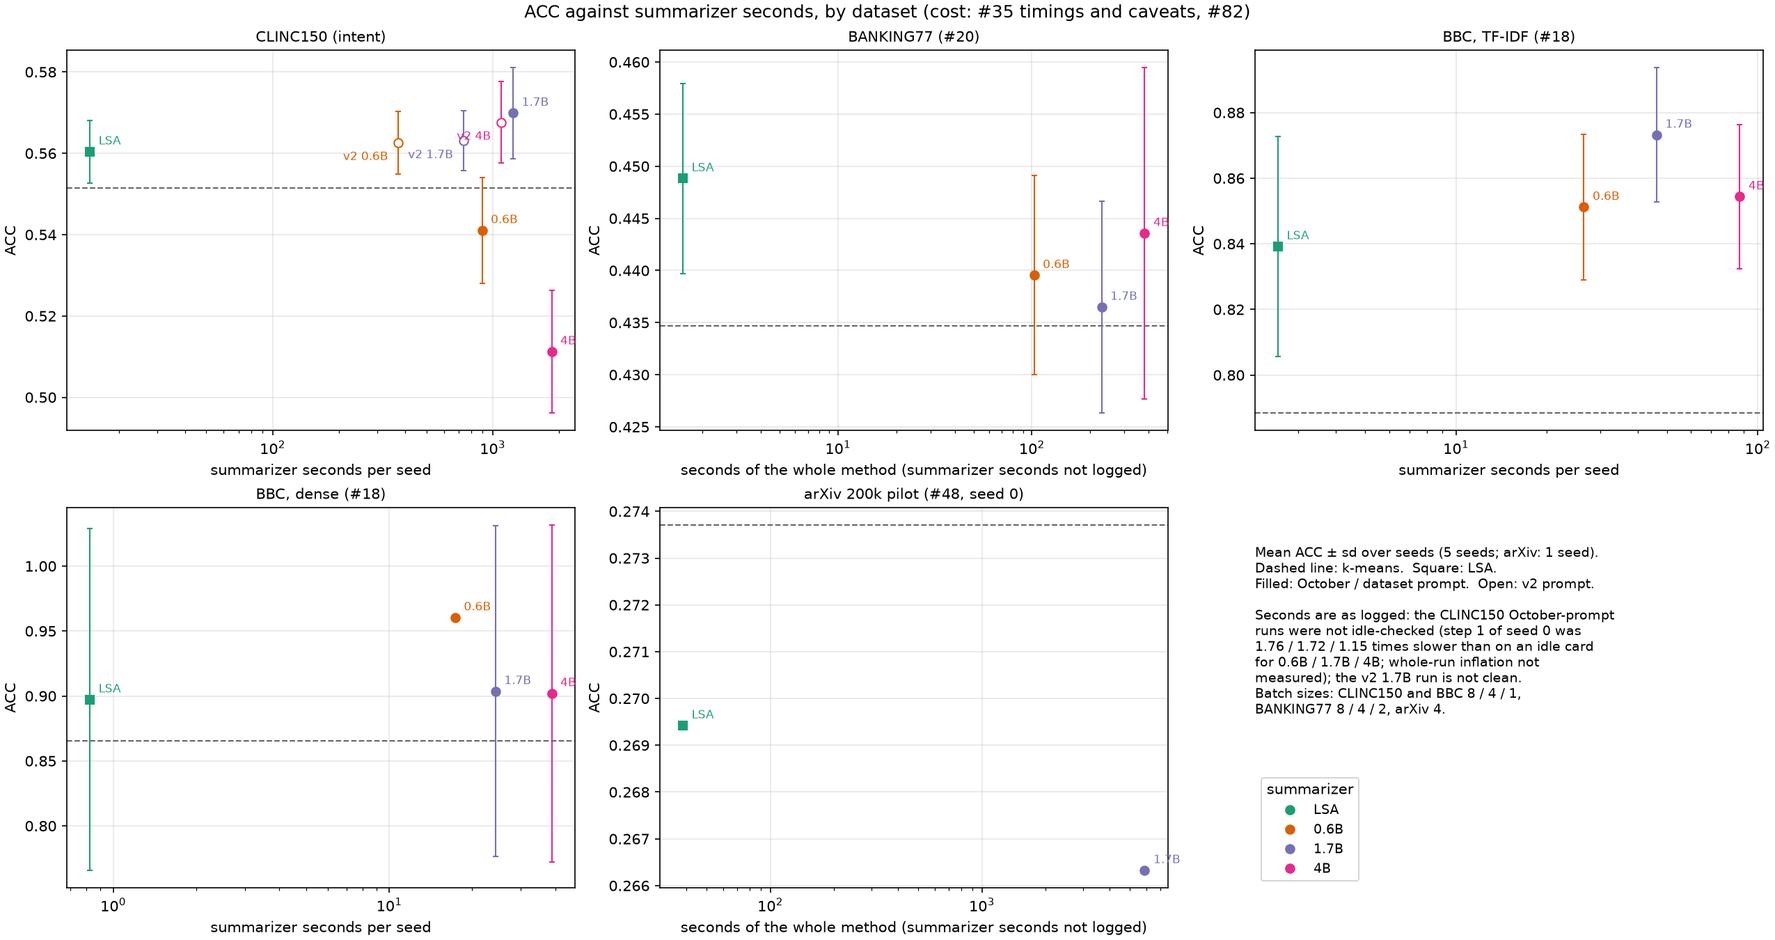
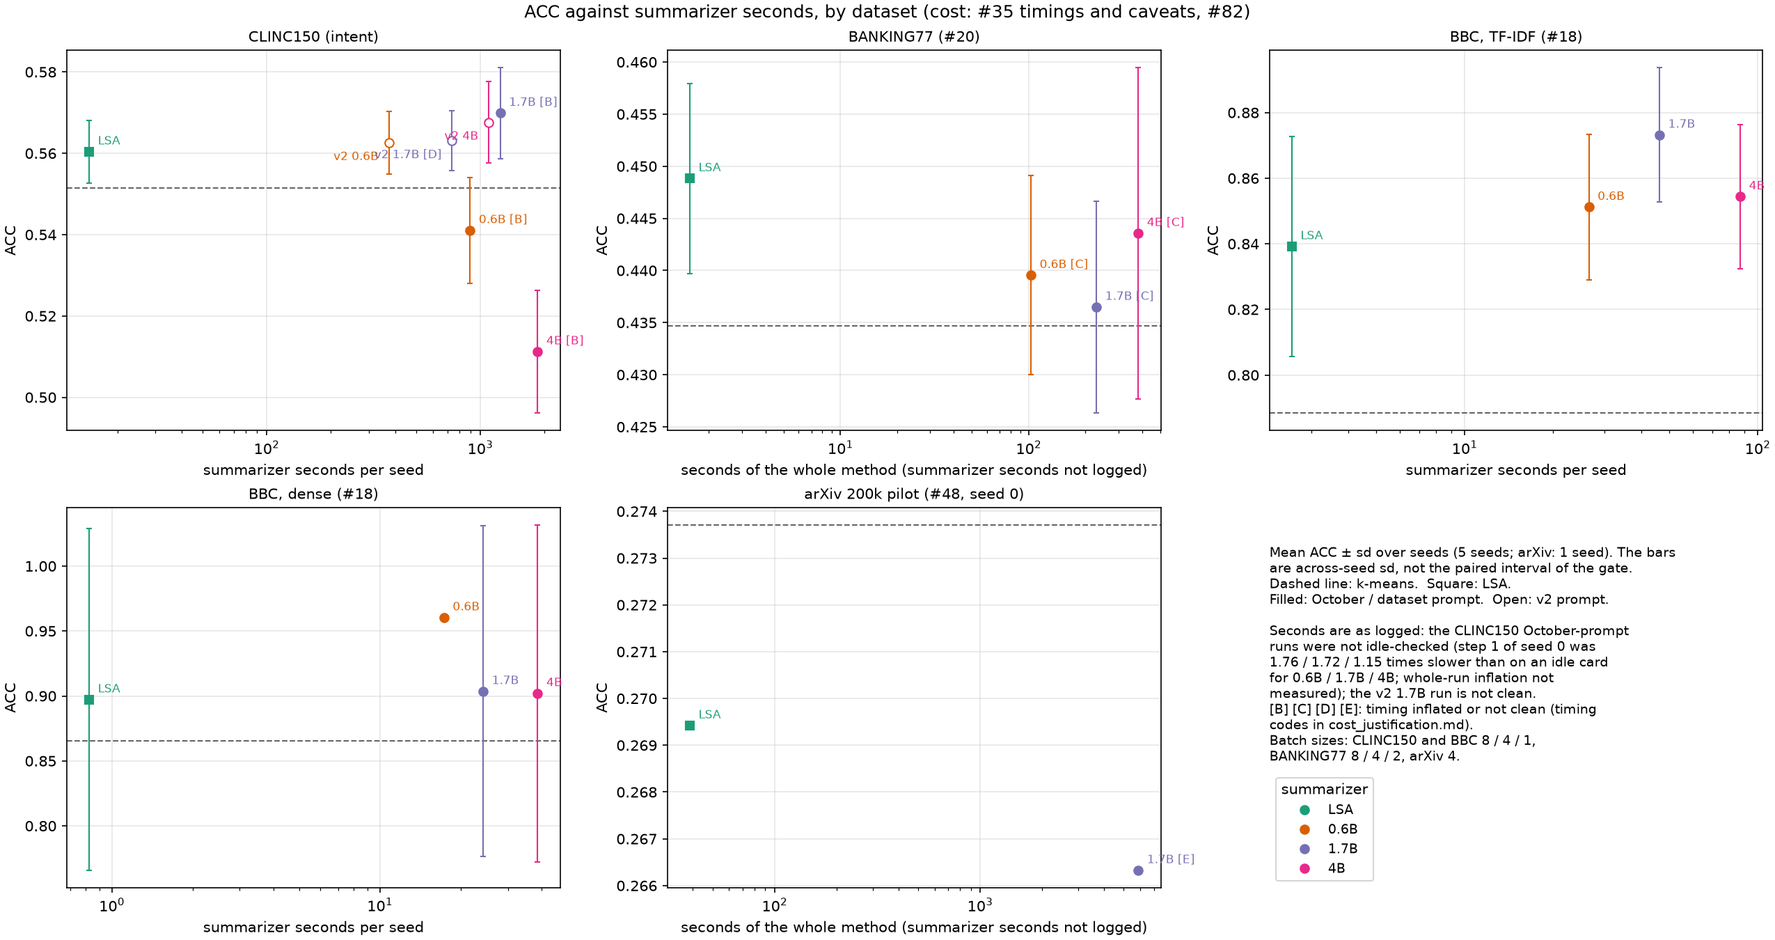
Tighten the cost-justification wording, mark unclean timings on the figure, accept a checkout or its results directory in the cost table script, and blank the arXiv extra seconds

diff --git a/tests/test_cost_table.py b/tests/test_cost_table.py
@@ -31,15 +31,10 @@ def _cost(rows: list[dict]) -> pd.DataFrame:
     return pd.DataFrame(out)
 
 
-def _per_seed() -> pd.DataFrame:
-    # 3 seeds. LSA beats k-means by 0.02 every seed; the SLM beats LSA by a noisy +-0.02 and k-means by a steady 0.05.
-    acc = {
-        "k-means": [0.50, 0.51, 0.52],
-        ct.LSA: [0.52, 0.53, 0.54],
-        SLM: [0.55, 0.56, 0.57],
-    }
-    slm_vs_lsa = [0.03, 0.03, 0.03]
-    acc[SLM] = [a + d for a, d in zip(acc[ct.LSA], slm_vs_lsa)]
+def _per_seed(slm_vs_lsa: float = 0.03) -> pd.DataFrame:
+    # 3 seeds. LSA beats k-means by 0.02 every seed; the SLM differs from LSA by `slm_vs_lsa` every seed.
+    lsa = [0.52, 0.53, 0.54]
+    acc = {"k-means": [0.50, 0.51, 0.52], ct.LSA: lsa, SLM: [a + slm_vs_lsa for a in lsa]}
     rows = [
         {"method": m, "seed": s, "acc": v, "nmi": v, "ari": v, "runtime_s": 1.0}
         for m, vals in acc.items()
@@ -48,7 +43,7 @@ def _per_seed() -> pd.DataFrame:
     return pd.DataFrame(rows)
 
 
-def _rows(prices=None, per_seed=None) -> pd.DataFrame:
+def _rows(prices=None, per_seed=None, slm_seconds: float = 602.0) -> pd.DataFrame:
     per_seed = _per_seed() if per_seed is None else per_seed
     cost = _cost(
         [
@@ -59,7 +54,7 @@ def _rows(prices=None, per_seed=None) -> pd.DataFrame:
                 "n_calls": 12,
                 "input_tokens": 1_000_000,
                 "output_tokens": 50_000,
-                "summarizer_seconds": 602.0,
+                "summarizer_seconds": slm_seconds,
                 "runtime_s": 610.0,
                 "batch_size": 4,
                 "gpu_idle": True,
@@ -134,6 +129,39 @@ def test_rows_noisy_difference_is_no_measured_benefit():
     rows = _rows(per_seed=per_seed).set_index("method")
     assert rows.loc[SLM, "lsa_status"] == "no_benefit"
     assert np.isnan(rows.loc[SLM, "lsa_seconds_per_point"])
+
+
+def test_rows_loss_status_has_no_ratio():
+    rows = _rows(per_seed=_per_seed(slm_vs_lsa=-0.03)).set_index("method")
+    assert rows.loc[SLM, "lsa_status"] == "loss"
+    assert rows.loc[SLM, "lsa_points"] == pytest.approx(-3.0)
+    assert np.isnan(rows.loc[SLM, "lsa_seconds_per_point"])
+
+
+def test_rows_benefit_that_is_not_costlier_has_no_ratio():
+    rows = _rows(slm_seconds=1.0).set_index("method")  # cheaper than LSA's 2.0 s
+    assert rows.loc[SLM, "lsa_status"] == "benefit_no_extra_cost"
+    assert np.isnan(rows.loc[SLM, "lsa_seconds_per_point"])
+    assert rows.loc[SLM, "kmeans_status"] == "benefit"  # still costlier than k-means (0 s)
+
+
+def test_priced_no_benefit_row_keeps_dollars_per_point_empty():
+    per_seed = _per_seed()
+    per_seed.loc[(per_seed.method == SLM) & (per_seed.seed == 0), ["acc", "nmi", "ari"]] -= 0.10
+    rows = _rows(prices=ct.load_prices(FIXTURE), per_seed=per_seed).set_index("method")
+    assert rows.loc[SLM, "lsa_status"] == "no_benefit"
+    assert rows.loc[SLM, "local_usd"] > 0  # priced
+    assert np.isnan(rows.loc[SLM, "lsa_usd_per_point:local"])
+    assert np.isnan(rows.loc[SLM, "lsa_usd_per_point:test-model"])
+
+
+def test_descriptive_only_rows_have_no_extra_seconds():
+    spec = ct.DatasetSpec("toy", "Toy", (), "p", descriptive_only=True)
+    per_seed = _per_seed()
+    per_seed = per_seed[per_seed.seed == 0]
+    cost = _cost([{"method": "k-means", "runtime_s": 118.0}, {"method": ct.LSA, "runtime_s": 39.0}, {"method": SLM, "runtime_s": 5885.0}])
+    rows = ct.build_rows(spec, cost, per_seed, paired_differences(per_seed, list(ct.REFERENCES)))
+    assert rows[["lsa_extra_seconds", "kmeans_extra_seconds"]].isna().all().all()
 
 
 def test_rows_run_total_seconds_when_no_summarizer_seconds_logged():
@@ -255,6 +283,31 @@ def test_collect_reads_run_directories(tmp_path):
     assert rows.loc[SLM, "vs_lsa_acc_diff"] == pytest.approx(0.03)
     with pytest.raises(FileNotFoundError):
         ct.collect(ct.DatasetSpec("x", "X", ("missing/stamp",), "p"), tmp_path / "results")
+
+
+def test_resolve_results_root_accepts_checkout_or_results_dir(tmp_path):
+    (tmp_path / "results").mkdir()
+    assert ct.resolve_results_root(tmp_path) == tmp_path / "results"
+    assert ct.resolve_results_root(tmp_path / "results") == tmp_path / "results"
+    assert ct.resolve_results_root(str(tmp_path)) == tmp_path / "results"
+
+
+def test_intervals_match_committed_paired_csvs_when_results_are_available():
+    """Optional: set KSLIMEANS_RESULTS to a checkout (or its results/) holding the runs."""
+    import os
+
+    env = os.environ.get("KSLIMEANS_RESULTS")
+    if not env:
+        pytest.skip("KSLIMEANS_RESULTS not set")
+    docs = Path(__file__).resolve().parent.parent / "docs" / "results"
+    for key, name in (("bbc_tfidf", "bbc_tfidf_paired.csv"), ("bbc_dense", "bbc_dense_paired.csv"), ("clinc150", "prompt_test_paired.csv")):
+        spec = next(d for d in ct.DATASETS if d.key == key)
+        rows = ct.collect(spec, ct.resolve_results_root(env)).set_index("method")
+        committed = pd.read_csv(docs / name)
+        for _, r in committed[committed["reference"].isin(ct.REFERENCES) & committed["method"].isin(rows.index)].iterrows():
+            ref = "lsa" if r["reference"] == ct.LSA else "kmeans"
+            for col, src in (("diff", "mean_diff"), ("lo", "ci_low"), ("hi", "ci_high")):
+                assert rows.loc[r["method"], f"vs_{ref}_{r['metric']}_{col}"] == pytest.approx(r[src], abs=1e-9)
 
 
 def test_script_is_executable_with_shebang():

diff --git a/scripts/cost_table.py b/scripts/cost_table.py
@@ -26,7 +26,7 @@ from pathlib import Path
 
 import pandas as pd
 
-from kslimeans.cost_table import DATASETS, collect, flat_csv, load_prices, render_all, short_name
+from kslimeans.cost_table import DATASETS, collect, flat_csv, load_prices, render_all, resolve_results_root, short_name
 
 KMEANS_COLOR = "#666666"
 FAMILY_COLOR = {"lsa": "#1b9e77", "0.6B": "#d95f02", "1.7B": "#7570b3", "4B": "#e7298a"}
@@ -59,7 +59,7 @@ def plot_pareto(frames: dict[str, pd.DataFrame], titles: dict[str, str], path: P
                 elinewidth=1, capsize=2, linestyle="none",
             )  # fmt: skip
             ax.annotate(
-                short_name(r), (r["seconds"], r["acc_mean"]), textcoords="offset points", xytext=(-7, -12) if v2 else (6, 5),
+                short_name(r) + (f" [{r['timing_code']}]" if r["timing_code"] in "BCDE" else ""), (r["seconds"], r["acc_mean"]), textcoords="offset points", xytext=(-7, -12) if v2 else (6, 5),
                 ha="right" if v2 else "left", fontsize=8, color=color,
             )  # fmt: skip
         ax.set_xscale("log")
@@ -73,10 +73,11 @@ def plot_pareto(frames: dict[str, pd.DataFrame], titles: dict[str, str], path: P
     note = flat[-1]
     note.text(
         0, 0.9,
-        "Mean ACC ± sd over seeds (5 seeds; arXiv: 1 seed).\nDashed line: k-means.  Square: LSA.\n"
+        "Mean ACC ± sd over seeds (5 seeds; arXiv: 1 seed). The bars\nare across-seed sd, not the paired interval of the gate.\nDashed line: k-means.  Square: LSA.\n"
         "Filled: October / dataset prompt.  Open: v2 prompt.\n\n"
         "Seconds are as logged: the CLINC150 October-prompt\nruns were not idle-checked (step 1 of seed 0 was\n"
         "1.76 / 1.72 / 1.15 times slower than on an idle card\nfor 0.6B / 1.7B / 4B; whole-run inflation not\nmeasured); the v2 1.7B run is not clean.\n"
+        "[B] [C] [D] [E]: timing inflated or not clean (timing\ncodes in cost_justification.md).\n"
         "Batch sizes: CLINC150 and BBC 8 / 4 / 1,\nBANKING77 8 / 4 / 2, arXiv 4.",
         va="top", fontsize=9, transform=note.transAxes,
     )  # fmt: skip
@@ -89,13 +90,15 @@ def plot_pareto(frames: dict[str, pd.DataFrame], titles: dict[str, str], path: P
 
 def main() -> None:
     parser = argparse.ArgumentParser(description=__doc__, formatter_class=argparse.RawDescriptionHelpFormatter)
-    parser.add_argument("--results", default=".", help="checkout that holds results/ (default: the current directory)")
+    parser.add_argument(
+        "--results", default=".", help="the checkout that holds results/, or that results/ directory (default: the current directory)"
+    )
     parser.add_argument("--out-dir", default="docs/results", help="where the CSV, markdown and figure go (default: %(default)s)")
     parser.add_argument("--prices", help="CSV of item,unit,usd,source,checked rows (#10); without it the dollar columns are empty")
     args = parser.parse_args()
 
     prices = load_prices(args.prices)
-    root = Path(args.results) / "results"
+    root = resolve_results_root(args.results)
     frames = {spec.key: collect(spec, root, prices) for spec in DATASETS}
     specs = {spec.key: spec for spec in DATASETS}
     out = Path(args.out_dir)

diff --git a/src/kslimeans/cost_table.py b/src/kslimeans/cost_table.py
@@ -418,6 +418,8 @@ def add_cost_per_benefit(frame: pd.DataFrame, api_models: list[str]) -> pd.DataF
     """
     frame = frame.copy()
     by_method = frame.set_index("method")
+    if "descriptive_only" not in frame:
+        frame["descriptive_only"] = False
     names = ["local", *api_models]
     for ref_name, ref_label in (("lsa", LSA), ("kmeans", KMEANS)):
         columns: dict[str, list] = {k: [] for k in ("status", "points", "extra_seconds", "seconds_per_point")}
@@ -430,7 +432,8 @@ def add_cost_per_benefit(frame: pd.DataFrame, api_models: list[str]) -> pd.DataF
                 extra_seconds, extra_usd = np.nan, {n: np.nan for n in names}
             else:
                 ref = by_method.loc[ref_label]
-                extra_seconds = row["seconds"] - ref["seconds"]
+                # One-seed runs are descriptive: their seconds sit on different shared-machine conditions and bases.
+                extra_seconds = np.nan if row["descriptive_only"] else row["seconds"] - ref["seconds"]
                 extra_usd = {"local": row["local_usd"] - ref["local_usd"]}
                 for model in api_models:
                     extra_usd[model] = row[f"api_usd:{model}"] - ref[f"api_usd:{model}"]
@@ -451,6 +454,15 @@ def add_cost_per_benefit(frame: pd.DataFrame, api_models: list[str]) -> pd.DataF
         for key, values in columns.items():
             frame[f"{ref_name}_{key}"] = values
     return frame
+
+
+def resolve_results_root(path: str | Path) -> Path:
+    """The directory that holds the run directories: `path/results` when it exists, else `path` itself.
+
+    So `--results` accepts either a checkout or its `results/` directory.
+    """
+    path = Path(path)
+    return path / "results" if (path / "results").is_dir() else path
 
 
 def collect(spec: DatasetSpec, root: str | Path, prices: Prices | None = None) -> pd.DataFrame:

diff --git a/docs/results/cost_justification.md b/docs/results/cost_justification.md
@@ -17,8 +17,8 @@ One row per (dataset, method[, prompt]): seeds, summarizer calls, input and outp
 | Code | Meaning |
 | --- | --- |
 | `-` | CPU method (k-means; LSA summarizer), no card involved |
-| `A` | card idle-checked at the start and clean during the run (non-torch memory within about our own CUDA context, +137 to +139 MiB) |
-| `B` | card not idle-checked (the run predates #35). CLINC150 October prompt only: at step 1 of seed 0 the logged seconds were **1.76 / 1.72 / 1.15 times** the idle-card seconds for 0.6B / 1.7B / 4B (`cost_timing.md` section 4, one step of one seed per size). **The whole-run inflation was not measured**; the full-seed re-time was dropped |
+| `A` | card idle-checked at the start and clean during the run (non-torch memory within about our own CUDA context, +137 to +139 MiB). For BBC, light low-priority CPU work for other issues ran alongside, so the CPU-side parts of those seconds may be slightly inflated; the GPU part is clean (`bbc.md`, "Time") |
+| `B` | card not idle-checked (the run predates #35). CLINC150 October prompt only: at step 1 of seed 0 the logged seconds were **1.76 / 1.72 / 1.15 times** the idle-card seconds for 0.6B / 1.7B / 4B (`cost_timing.md` section 4, one step of one seed per size). **The whole-run inflation was not measured**; the full-seed re-time was dropped. Step 1 was the least inflated step of the 0.6B and 4B runs (later steps ran slower per output token, `cost_timing.md` section 4), so 1.76 / 1.72 / 1.15 are probably lower bounds for the whole run; they are not a whole-run correction and are not applied |
 | `C` | card not idle-checked, inflation not measured (BANKING77; one BANKING77 check had estimated about 1.7x, from a single run) |
 | `D` | idle at start, but 1,625 MiB of foreign memory seen during the run: not a clean timing (CLINC150 v2 1.7B; its seed-to-seed sd is 198 s against 9 and 21 s for the other two v2 runs) |
 | `E` | the run overlapped other jobs, so the seconds are an upper bound on idle-card seconds (the arXiv pilot) |
@@ -29,7 +29,7 @@ Batch sizes differ by model (CLINC150 and BBC 8 / 4 / 1 for 0.6B / 1.7B / 4B, BA
 
 ## 2. The summary view
 
-ACC columns are in ACC units (0.01 = one ACC point); the intervals are paired differences over seeds. "s per ACC point" is (row seconds minus the reference's seconds) divided by the ACC difference in points, shown **only when the interval's lower end is above 0**; "measured loss" means the interval is entirely below 0, and "no measured benefit" that it contains 0 (or, for arXiv, that there is one seed and so no interval). k-means has no summarizer, so its seconds are 0 where the dataset's seconds are summarizer seconds. `*`: seconds of the whole method, not summarizer seconds. NMI and ARI differences are in the full table; the rule is applied to ACC only.
+ACC columns are in ACC units (0.01 = one ACC point); the intervals are paired differences over seeds. "s per ACC point" is (row seconds minus the reference's seconds) divided by the ACC difference in points, shown **only when the interval's lower end is above 0**; "measured loss" means the interval is entirely below 0, and "no measured benefit" that it contains 0. arXiv has one seed, so no interval: its cells are `n/a`, and its extra seconds are left empty in the CSV because its k-means, LSA and pilot seconds come from different shared-machine conditions and bases. k-means has no summarizer, so its seconds are 0 where the dataset's seconds are summarizer seconds. `*`: seconds of the whole method, not summarizer seconds. NMI and ARI differences are in the full table; the rule is applied to ACC only.
 
 | Dataset | Method | ACC | seconds | timing | ACC vs LSA | s per ACC point vs LSA | ACC vs k-means | s per ACC point vs k-means |
 | --- | ---: | ---: | ---: | --- | ---: | ---: | ---: | ---: |
@@ -62,7 +62,7 @@ ACC columns are in ACC units (0.01 = one ACC point); the intervals are paired di
 
 ![ACC against summarizer seconds](cost_justification_pareto.png)
 
-Mean ACC ± sd over seeds against seconds (log x), one panel per dataset, k-means as the dashed line. The x positions of the CLINC150 October-prompt points (and all BANKING77 points) carry the inflation described above; the arXiv panel is one seed.
+Mean ACC ± sd over seeds against seconds (log x), one panel per dataset, k-means as the dashed line. The error bars are across-seed standard deviations, **not** the paired interval used for the gate (a bar that overlaps another point does not decide the gate either way). Points with timing code B, C, D or E are marked at the point. The x positions of the CLINC150 October-prompt points (and all BANKING77 points) carry the inflation described above; the arXiv panel is one seed.
 
 ## 3. Reading it, dataset by dataset
 
@@ -71,8 +71,8 @@ Scoped to what ran. With 5 seeds the intervals are wide, so "no measured benefit
 **CLINC150 (5 seeds, both prompts).**
 - LSA gains +0.009 ACC over k-means (interval excludes 0) for 14.8 s of summarizer time, 16.6 s per ACC point.
 - October prompt: the 1.7B is the only SLM clearly above k-means (+0.018 [+0.004, +0.033]) and is not distinguishable from LSA (+0.010 [-0.011, +0.030]), at 84 times LSA's summarizer seconds (logged, with the step-1 inflation above). The 0.6B and 4B are clearly below LSA and below k-means: more cost bought less ACC.
-- v2 prompt: all three sizes are above k-means (+0.011 to +0.016, intervals exclude 0), and none is distinguishable from LSA (+0.002 to +0.007, all intervals contain 0). Against k-means the clean-timing runs cost about 335 s (0.6B) and 677 s (4B) per ACC point, against 16.6 s for LSA; the 1.7B's 635 s is not a clean timing (`D`).
-- So on CLINC150 LSA captures the measured gain over k-means at roughly 1/25 to 1/125 of the summarizer seconds. An SLM is not shown to be worth its extra seconds here; whether the v2 SLMs add anything over LSA cannot be told from 5 seeds.
+- v2 prompt: all three sizes are above k-means (+0.011 to +0.016, intervals exclude 0), and none is distinguishable from LSA on ACC (+0.002 to +0.007, all intervals contain 0); the exception is the 4B's NMI against LSA, +0.008 [+0.002, +0.014], which is not gated. Against k-means the clean-timing runs cost about 335 s (0.6B) and 677 s (4B) per ACC point, against 16.6 s for LSA; the 1.7B's 635 s is not a clean timing (`D`).
+- Among the rows that gain over k-means (LSA, the October 1.7B and the three v2 sizes), LSA's summarizer seconds are 1/25 to 1/84 of an SLM's (logged; the October 4B, at 1/125, is a loss and is left out). The SLM means that are higher than LSA's are not distinguishable from it on ACC, so an SLM is not shown to be worth its extra seconds here; whether the v2 SLMs add anything over LSA cannot be told from 5 seeds.
 
 **BANKING77 (5 seeds, upstream prompt, timings of code `C`).**
 - LSA gains +0.014 [+0.006, +0.022] ACC over k-means for 1.3 extra seconds. No SLM size has an ACC interval excluding 0 against either reference.
@@ -80,7 +80,7 @@ Scoped to what ran. With 5 seeds the intervals are wide, so "no measured benefit
 
 **BBC, TF-IDF and dense (500 articles, 5 seeds, #18).**
 - TF-IDF: no ACC interval excludes 0, against LSA or k-means, for LSA or any SLM (k-means ACC sd 0.080 over seeds). The 1.7B's NMI against LSA is +0.052 [+0.001, +0.103] and its ARI against k-means +0.125 [+0.007, +0.243], but these are other metrics, not gated, and weak (lower ends at 0.001 and 0.007).
-- Dense: the 1.7B and 4B are above LSA on ACC by +0.006 [+0.001, +0.012] and +0.005 [+0.001, +0.009], which costs 24 and 38 extra seconds (code `A`, clean timings): 36.6 and 79.1 s per ACC point over LSA. These are 0.5 to 0.6 ACC points. Against k-means nothing is clear. The k-means and LSA ACC spreads over seeds are large (sd 0.129 and 0.131), the 0.6B has the highest mean (0.960, sd 0.001) but its interval against LSA is [-0.100, +0.226], and these intervals are uncorrected; treat the dense gap as small and suggestive. It is the only place in this table where an SLM has a measured ACC gain over LSA.
+- Dense: the 1.7B and 4B are above LSA on ACC by +0.006 [+0.001, +0.012] and +0.005 [+0.001, +0.009], which costs 24 and 38 extra seconds (code `A`, clean timings): 36.6 and 79.1 s per ACC point over LSA. These are 0.5 to 0.6 ACC points. Against k-means nothing is clear. The k-means and LSA ACC spreads over seeds are large (sd 0.129 and 0.131), the 0.6B has the highest mean (0.960, sd 0.001) but its interval against LSA is [-0.100, +0.226], and these intervals are uncorrected; treat the dense gap as small and suggestive. Per-point seconds also depend on step counts: the dense runs stopped before the fifth summary step in several seeds (`bbc.md`, Section 6), so calls per seed differ (15.2 / 13.0 / 11.0 for 0.6B / 1.7B / 4B against 13.0 for LSA) and the seconds per ACC point are not at equal work. It is the only measured ACC gain over LSA in this table.
 - On the 500-article corpus the whole cost is small in absolute terms (under 90 s per seed for any SLM).
 
 **arXiv 200k, seed 0 (descriptive only).**
@@ -88,9 +88,9 @@ Scoped to what ran. With 5 seeds the intervals are wide, so "no measured benefit
 - The pilot took 5,885 s (code `E`: concurrent jobs, upper bound), 1.75 s per scheduled call, against 39 s for the LSA clustering plus 3,319 s of one-off segmentation, and 118 s for k-means. No comparison is claimed (`arxiv_status.md`).
 
 **When the extractive summarizer is the better choice, and when an SLM is worth it (what ran).**
-- Where the paired ACC interval against LSA contains 0 (CLINC150 with either prompt, BANKING77, BBC TF-IDF, arXiv), the SLMs show no measured benefit over LSA, and LSA costs 10 to 240 times fewer seconds as logged. Where it is clearly below 0 (CLINC150 October 0.6B and 4B), the SLM costs more and does worse. LSA is the better choice on all of these.
-- An SLM paid for itself in this data only in one place: BBC with the dense embedder, where the 1.7B and 4B beat LSA by about half an ACC point for 24 to 38 more seconds per seed on a 500-article corpus.
-- Where the data cannot tell: the CLINC150 v2 prompt (SLMs above k-means, not distinguishable from LSA), BBC TF-IDF, and arXiv (1 seed).
+- Where the paired ACC interval against LSA contains 0 (CLINC150 with either prompt, BANKING77, BBC TF-IDF), the SLMs show no measured benefit over LSA, and LSA costs less: 10 to 125 times fewer summarizer seconds as logged on CLINC150 and BBC (25 to 125 on CLINC150, 10 to 34 on BBC TF-IDF, 21 to 47 on BBC dense), and 65 to 241 times fewer whole-method seconds on BANKING77 (a different seconds basis, so not pooled). Where the interval is clearly below 0 (CLINC150 October 0.6B and 4B), the SLM costs more and does worse. LSA is the better choice on all of these.
+- The only measured ACC gain of an SLM over LSA is BBC with the dense embedder: +0.5 to +0.6 ACC points for the 1.7B and 4B, uncorrected for the many paired comparisons made (`progress_nov16.md`: 2 of 30 BBC intervals exclude 0), lower interval ends at +0.001, 24 to 38 more seconds per seed on a 500-article corpus at unequal step counts, and unpriced (pending #10).
+- Where the data cannot tell: the CLINC150 v2 prompt (SLMs above k-means, not distinguishable from LSA on ACC), BBC TF-IDF, and arXiv (1 seed, no interval).
 - One model family, one prompt per dataset except CLINC150, greedy decoding, one GPU, batch sizes that differ by model: the table does not separate model size from batching, and says nothing about larger models or about summary quality (#38, #50).
 
 ## 4. Prices
@@ -105,12 +105,14 @@ A small example file with made-up numbers, for the unit tests only, is `tests/fi
 
 ## 5. Reproduce
 
-Run from the checkout that holds `results/` (the runs are not in git; the run directories are listed in `kslimeans.cost_table.DATASETS`). CPU only, a few seconds:
+Run from the repo root of the checkout that holds `results/` (the runs are not in git; the run directories are listed in `kslimeans.cost_table.DATASETS`). `--results` takes that checkout or its `results/` directory (default: the current directory). CPU only, a few seconds:
 
 ```
-python scripts/cost_table.py --results <checkout with results/> --out-dir docs/results
+python scripts/cost_table.py --out-dir docs/results
+# from another checkout (a worktree, say), pointing at the one that holds the runs:
+python scripts/cost_table.py --results <checkout or its results/ directory> --out-dir docs/results
 # with prices, once docs/cost_assumptions.md exists (#10):
-python scripts/cost_table.py --results <checkout with results/> --out-dir docs/results --prices prices.csv
+python scripts/cost_table.py --out-dir docs/results --prices prices.csv
 ```
 
-It writes `cost_justification_table.csv`, `cost_justification_table.md` and `cost_justification_pareto.png`. The summary table of section 2 is the same data, reduced to the ACC columns. Tests: `tests/test_cost_table.py`.
+It writes `cost_justification_table.csv`, `cost_justification_table.md` and `cost_justification_pareto.png`. The summary table of section 2 is the same data, reduced to the ACC columns. Tests: `tests/test_cost_table.py` (set `KSLIMEANS_RESULTS` to also check the intervals against the committed paired CSVs).
